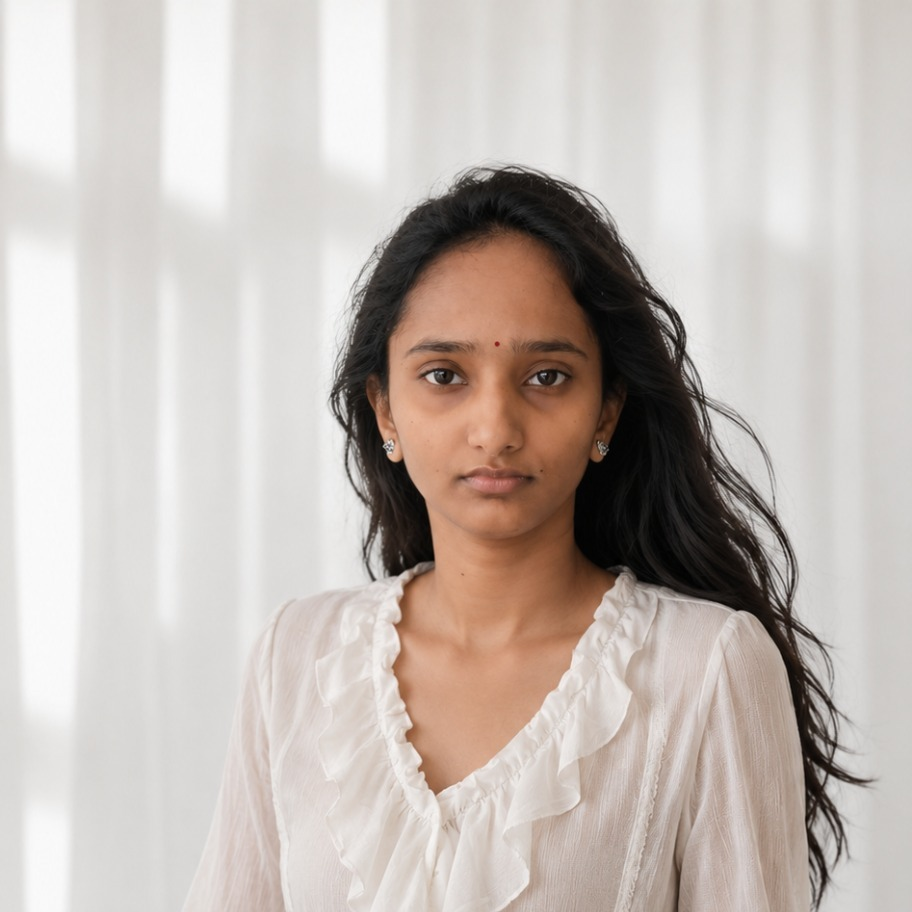
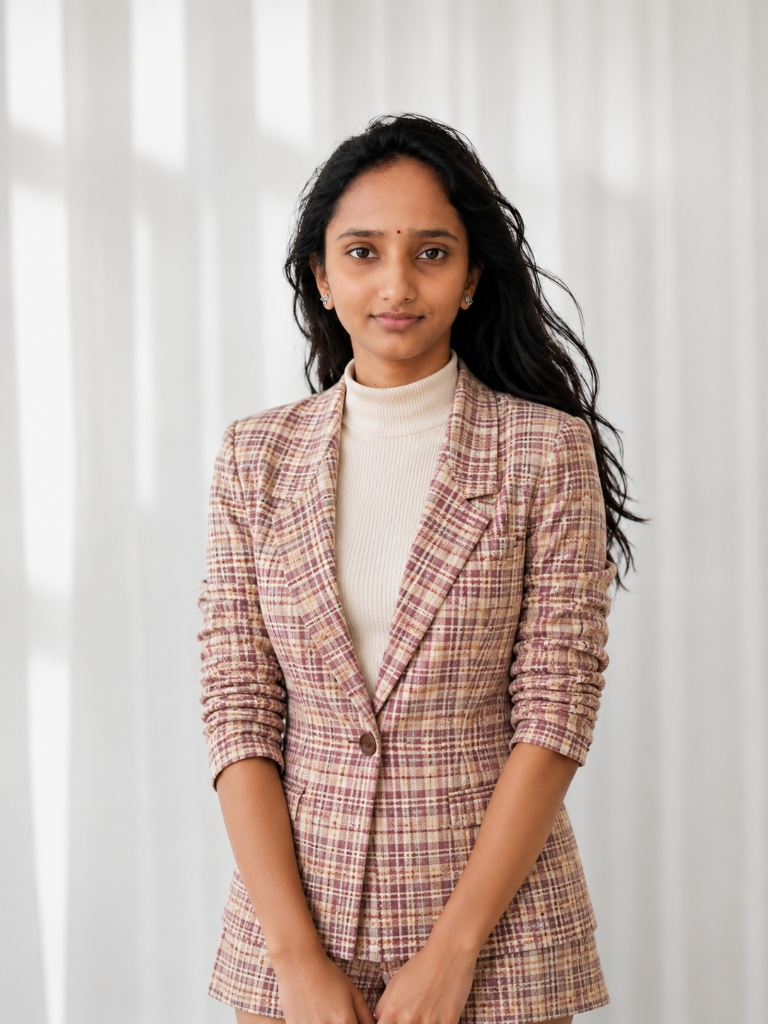
Implement CSS cropped circular profile photo and royal-letter reveal animation in modal

diff --git a/src/components/Contact.jsx b/src/components/Contact.jsx
@@ -10,6 +10,7 @@ export default function Contact() {
   })
   const [message, setMessage] = useState("")
   const [isModalOpen, setIsModalOpen] = useState(false)
+  const [hasOpened, setHasOpened] = useState(false)
 
   useEffect(() => {
     if (!isModalOpen) return
@@ -88,6 +89,40 @@ export default function Contact() {
         .animate-float-icon-slow {
           animation: float-icon-2 5s ease-in-out infinite;
         }
+        @keyframes royal-letter-open {
+          0% {
+            opacity: 0;
+            transform: scale(0.3) rotateX(65deg) translateY(60px);
+          }
+          65% {
+            opacity: 0.9;
+            transform: scale(1.02) rotateX(-5deg) translateY(-5px);
+          }
+          100% {
+            opacity: 1;
+            transform: scale(1) rotateX(0deg) translateY(0);
+          }
+        }
+        @keyframes royal-letter-close {
+          0% {
+            opacity: 1;
+            transform: scale(1) rotateX(0deg) translateY(0);
+          }
+          100% {
+            opacity: 0;
+            transform: scale(0.3) rotateX(65deg) translateY(60px);
+          }
+        }
+        .animate-royal-open {
+          animation: royal-letter-open 650ms cubic-bezier(0.25, 1, 0.5, 1) forwards;
+          transform-origin: center center;
+          perspective: 1000px;
+        }
+        .animate-royal-close {
+          animation: royal-letter-close 550ms cubic-bezier(0.25, 1, 0.5, 1) forwards;
+          transform-origin: center center;
+          perspective: 1000px;
+        }
       `}} />
 
       <h2 className="text-4xl md:text-5xl font-extrabold text-center mb-16 text-white">
@@ -114,7 +149,7 @@ export default function Contact() {
             <div className="relative z-10 p-1.5 rounded-full bg-gradient-to-r from-amber-500 via-orange-400 to-amber-600 shadow-[0_0_50px_rgba(245,158,11,0.5)] animate-float-portrait">
               <div className="p-1 rounded-full bg-zinc-950">
                 <button
-                  onClick={() => setIsModalOpen(true)}
+                  onClick={() => { setIsModalOpen(true); setHasOpened(true); }}
                   aria-label="View profile photo"
                   style={{
                     background: 'transparent',
@@ -130,6 +165,7 @@ export default function Contact() {
                     src="/profile.jpg"
                     alt="Devika Polavarapu"
                     className="w-36 h-36 md:w-44 md:h-44 object-cover rounded-full ring-2 ring-amber-400/20"
+                    style={{ objectPosition: 'center 18%' }}
                   />
                 </button>
               </div>
@@ -556,43 +592,59 @@ export default function Contact() {
 
       {/* Lightbox / Modal */}
       <div
-        className={`fixed inset-0 z-50 flex items-center justify-center bg-black/85 backdrop-blur-md transition-opacity duration-300 ${
+        className={`fixed inset-0 z-50 flex items-center justify-center bg-black/75 backdrop-blur-sm transition-opacity duration-[500ms] ${
           isModalOpen ? "opacity-100 pointer-events-auto" : "opacity-0 pointer-events-none"
         }`}
         onClick={() => setIsModalOpen(false)}
       >
-        {/* Close button inside modal (X) */}
-        <button
-          onClick={() => setIsModalOpen(false)}
-          aria-label="Close profile photo"
-          style={{
-            background: 'rgba(24, 24, 27, 0.4)',
-            padding: 0,
-            border: 'none',
-            borderRadius: '50%',
-            boxShadow: 'none',
-            display: 'flex',
-            alignItems: 'center',
-            justifyContent: 'center',
-            width: '48px',
-            height: '48px'
-          }}
-          className="absolute top-6 right-6 text-white hover:text-amber-500 hover:scale-110 active:scale-95 transition-all duration-300 text-3xl font-semibold cursor-pointer z-50"
-        >
-          &times;
-        </button>
-
-        {/* Large Image Container */}
+        {/* Large Image Container with Neon Frame */}
         <div
-          className={`relative p-2 max-w-[80vw] lg:max-w-[650px] w-full max-h-[85vh] flex items-center justify-center transition-all duration-300 transform ${
-            isModalOpen ? "scale-100 opacity-100" : "scale-75 opacity-0"
+          className={`relative max-w-[90vw] md:max-w-[480px] w-full max-h-[88vh] ${
+            isModalOpen 
+              ? "animate-royal-open" 
+              : hasOpened 
+                ? "animate-royal-close" 
+                : "opacity-0 scale-75"
           }`}
-          onClick={(e) => e.stopPropagation()} // Prevent closing when clicking the image itself
+          onClick={(e) => e.stopPropagation()} // Prevent closing when clicking the frame itself
+          style={{
+            border: '2px solid #FB923C',
+            boxShadow: '0 0 6px rgba(251, 146, 60, 0.95), 0 0 16px rgba(249, 115, 22, 0.65), 0 0 35px rgba(249, 115, 22, 0.35)',
+            borderRadius: '16px',
+            backgroundColor: '#0c0a09', // dark backdrop matching card bg
+            overflow: 'hidden'
+          }}
         >
+          {/* Close button inside modal (X) near the top-right of the portrait frame */}
+          <button
+            onClick={() => setIsModalOpen(false)}
+            aria-label="Close profile photo"
+            style={{
+              background: 'rgba(12, 10, 9, 0.75)',
+              border: '1px solid rgba(251, 146, 60, 0.3)',
+              boxShadow: '0 0 8px rgba(251, 146, 60, 0.2)',
+              borderRadius: '50%',
+              display: 'flex',
+              alignItems: 'center',
+              justifyContent: 'center',
+              width: '36px',
+              height: '36px',
+              position: 'absolute',
+              top: '12px',
+              right: '12px',
+              cursor: 'pointer'
+            }}
+            className="text-[#FB923C] hover:text-[#F97316] hover:scale-105 active:scale-95 transition-all duration-300 text-2xl font-bold z-50"
+          >
+            &times;
+          </button>
+
+          {/* Opened image */}
           <img
             src="/profile.jpg"
             alt="Devika Polavarapu Expanded Profile"
-            className="w-full h-full max-w-[80vw] lg:max-w-[650px] max-h-[85vh] object-contain rounded-2xl border border-amber-500/20 shadow-[0_0_50px_rgba(245,158,11,0.25)]"
+            className="w-full h-auto max-h-[86vh] object-contain block rounded-2xl"
+            style={{ display: 'block' }}
           />
         </div>
       </div>
